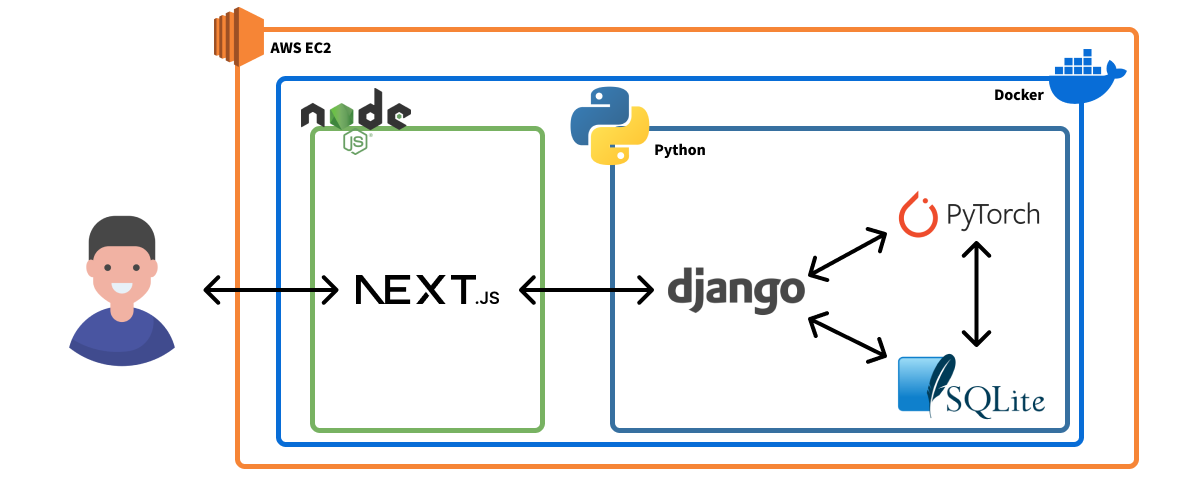
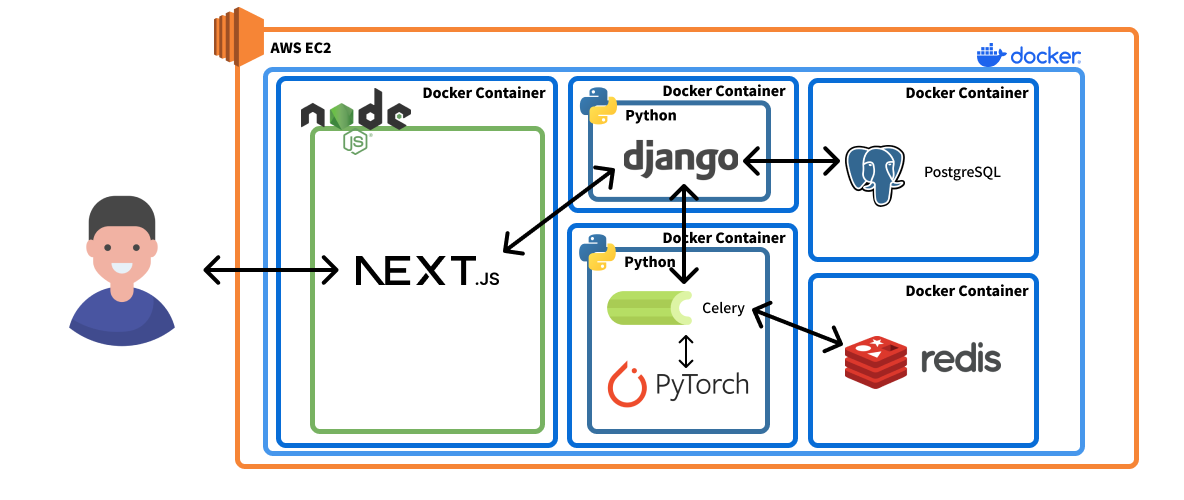
docs: 최종 보고서 작성 1/2

Changed region(s): [[0.0625, 0.09, 0.9688, 0.93]]

diff --git a/documents/week10/docker.md b/documents/week10/docker.md
@@ -1,0 +1,146 @@
+# Docker로 인프라 구축하기
+
+Docker를 이용하면 프론트엔드와 백엔드의 복잡한 실행과정을 명령어 하나로 줄일 수 있고, 개발자 각각의 개인 환경 및 배포 환경에 구애 받지 않고 쉽게 실행할 수 있다.
+
+## 시스템 구상도
+![system diagram](../README_img/System_Diagram.png)
+
+## Compose.yaml
+**[compose.yaml 바로가기](../../compose.yaml)**
+
+`Docker-Compose`는 도커의 여러 이미지 및 컨테이너들을 하나로 묶을 수 있는 기능이다. 프로젝트에 필요한 컨테이너는 총 다섯개이다.
+
+### 1. DB 컨테이너
+```yaml
+  db:
+    # postgres 공식 이미지를 이용하면 별도의 `dockerfile`이 필요하지 않으므로 `postgres:15`를 이용한다.
+    image: postgres:15
+    container_name: postgres
+    # 컨테이너 실행에 실패할경우 바로 재실행한다.
+    restart: always
+    # PostgrSQL의 기본 포트를 개방한다.
+    ports: 
+      - "5432:5432"
+    # PostgreSQL 기본 환경에 필요한 환경변수를 불러온다.
+    environment:
+      POSTGRES_USER: ${DATABASES_USER}
+      POSTGRES_PASSWORD: ${DATABASES_PASSWORD}
+      POSTGRES_DB: ${DATABASES_NAME}
+      POSTGRES_HOST_AUTH_METHOD: trust
+    # 컨테이너 재실행시 데이터를 유지하기 위해 필요하다.
+    volumes:
+      - ~/apps/postgres:/var/lib/postgresql/data
+    # 백엔드(Django)에서 접속하기 위해 같은 networks로 묶는다.
+    networks:
+      - aiweb-network
+```
+- DB 컨테이너는 PostgreSQL을 담은 컨테이너이며, 백엔드에 필요한 데이터베이스를 관장하고있다.
+
+### 2. Front-end 컨테이너
+```yaml
+  front:
+    container_name: frontend-nextjs
+    # ./ai_web_front 폴더를 기반으로 ./ai_web_front/dockerfile 이미지를 이용해 컨테이너를 실행한다.
+    build:
+      context: ./ai_web_front
+      dockerfile: ./dockerfile
+    # 컨테이너 실행에 실패할경우 바로 재실행한다.
+    restart: always
+    # Next.js의 기본 포트를 개방한다. (실제 배포 환경은 수정이 필요하다.)
+    ports:
+      - "3000:3000"
+    # Node.js 환경에 필요한 module을 빠르게 로드하기 위해 volumes을 이용한다. Next.js의 빠른 re-load에 도움을 준다.
+    volumes:
+      - ./ai_web_front:/usr/src/frontend
+      - /usr/src/frontend/node_modules
+      - /usr/src/frontend/.next
+    # 백엔드(Django)와 API통신을 하기 위해 같은 networks로 묶는다
+    networks:
+      - aiweb-network
+    # Docker 환경에서 Next.js의 Re-load 기능을 이용하기 위한 세팅이다.
+    environment:
+      - NODE_ENV=development
+      - CHOKIDAR_USEPOLLING=true
+      - WATCHPACK_POLLING=true
+    # .env 파일을 불러와 환경변수를 로드한다.
+    env_file: ./.env
+```
+- front 컨테이너는 Next.js를 이용한 프론트엔드 환경을 실행한다.
+
+### 3. redis 컨테이너
+```yaml
+  redis:
+    # redis 공식 이미지를 이용하면 별도의 `dockerfile`이 필요하지 않으므로 `redis:7`을 이용한다.
+    image: redis:7
+    container_name: redis
+    # 컨테이너 실행에 실패할경우 바로 재실행한다.
+    restart: always
+    # Redis의 기본 포트를 개방한다.
+    ports:
+     - "6379:6379"
+    # 보안을 위해 Redis에 비밀번호를 설정해준다.
+    command: ["redis-server", "--requirepass", "${REDIS_PASSWORD}"]
+    # 재실행시 데이터 유지를 위해 volumes를 설정한다.
+    volumes:
+      - ./redis/data:/data
+    # 보안을 위해 Redis에 비밀번호를 설정해준다.
+    environment:
+      REDIS_HOST_PASSWORD: ${REDIS_PASSWORD}
+    # Celery에서의 접속을 위해 같은 networks로 묶는다
+    networks:
+      - aiweb-network
+```
+- redis는 비동기 병렬처리를 위한 Celery의 Brocker로 이용된다.
+
+### 4. celery 컨테이너
+```yaml
+  celery:
+    container_name: celery-worker
+    # ./ai-web-back 폴더를 기반으로 ./ai-web-back/dockerfile 이미지를 이용해 컨테이너를 실행한다.
+    # ./ai-web-back/dockerfile은 Back-end 컨테이너와 같은 Python 환경이므로 Back-end 컨테이너와 같은 dockerfile을 이용한다.
+    build:
+      context: ./ai-web-back
+      dockerfile: ./dockerfile
+    # 컨테이너 실행에 실패할경우 바로 재실행한다.
+    restart: always
+    # Django와의 통신을 위해 같은 networks로 묶는다
+    networks:
+      - aiweb-network
+    # 구동을 위해 필요한 환경변수를 로드한다.
+    env_file: ./.env
+    # dockerfile을 통해 컨테이너 실행후 마지막에 Celery worker를 실행하는 명령어를 실행한다.
+    command: celery -A myapp worker -l info --pool threads
+    # redis 컨테이너 구동 후 실행할 수 있도록 설정한다.
+    depends_on:
+      - redis
+```
+- AI 모델을 비동기 병렬처리하기 위해 Celery를 이용한다.
+
+### 5. backend-django 컨테이너
+```yaml
+  back:
+    container_name: backend-django
+    # ./ai-web-back 폴더를 기반으로 ./ai-web-back/dockerfile 이미지를 이용해 컨테이너를 실행한다.
+    # ./ai-web-back/dockerfile은 Celery 컨테이너와 같은 Python 환경이므로 Celery 컨테이너와 같은 dockerfile을 이용한다.
+    build:
+      context: ./ai-web-back
+      dockerfile: ./dockerfile
+    # 컨테이너 실행에 실패할경우 바로 재실행한다.
+    restart: always
+    # Django를 위해 포트를 개방한다.
+    # Django의 기본포트는 8000이나, 개발환경과의 포트 충돌을 피하기위해 8080으로 설정하였다.
+    ports:
+      - "8080:8080"
+    # Next.js와의 API 통신 및 PostgreSql 접속을 위해 같은 networks로 묶는다
+    networks:
+      - aiweb-network
+    # 구동에 필요한 환경변수를 로드한다.
+    env_file: ./.env
+    # 데이터베이스 마이그레이션 및 Django 서버를 실행한다.
+    command: sh -c "python3 manage.py migrate && python3 manage.py runserver 0.0.0.0:8080 --noreload"
+    # celery와 db 컨테이너 구동 후 실행할 수 있도록 설정한다.
+    depends_on:
+      - celery
+      - db
+```
+- API서버를 담당하는 Django 컨테이너이다.
